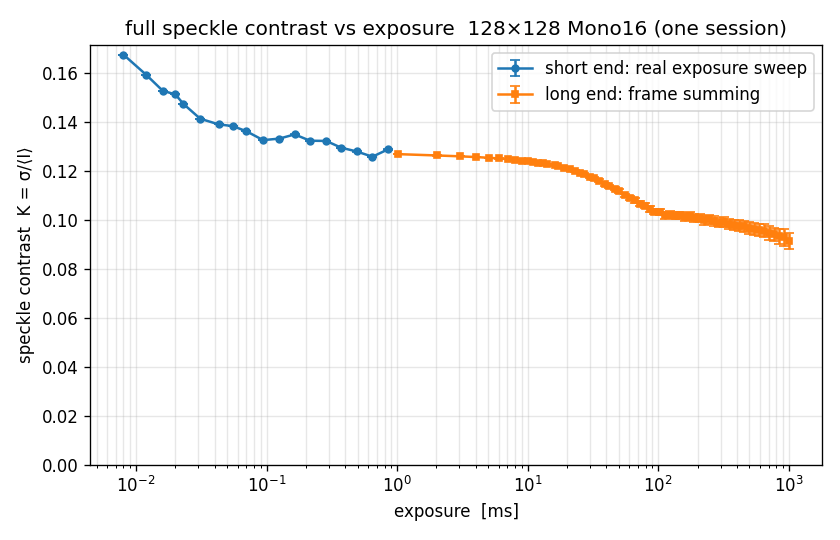
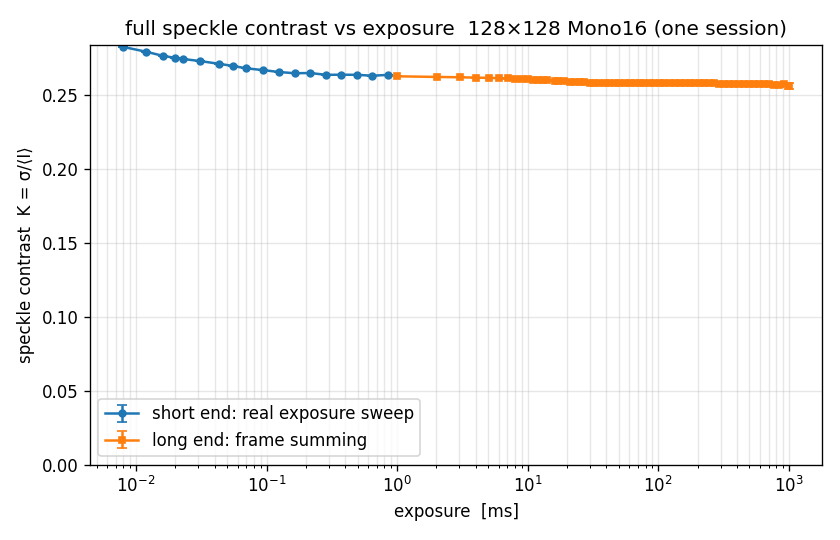
Replace paper decorrelation data with a clean static run
The earlier paper run drifted at long exposure. This run trimmed the light
(no clipping, max ~57k) and let the setup thermally settle, giving the
expected static result: contrast flat at ~0.26 across the whole 8 us..1 s
range (no decorrelation), well-exposed throughout. README updated.

diff --git a/paper_decorrelation_data/README.md b/paper_decorrelation_data/README.md
@@ -1,17 +1,15 @@
 # Paper decorrelation data
 
-Speckle contrast vs exposure for a **static paper** sample (a rigid, non-moving
-scatterer — the static counterpart to [milk](../milk_decorrelation_data/)),
-acquired 2026-05-24.
+Speckle contrast vs exposure for a **static paper** sample (the static counterpart
+to [milk](../milk_decorrelation_data/)), acquired 2026-05-24. Clean run: light
+trimmed to avoid clipping and the setup thermally settled to remove drift.
 
 ## Acquisition conditions
 - Camera: FLIR Blackfly S BFS-U3-16S2M, **Mono16** (12-bit), **128×128** hardware ROI.
 - Operating point: ~**994 fps**, **857 µs** exposure, ~149 µs gap (~1006 µs period).
 - Short end (8–850 µs): real exposure sweep, photon-matched averaging.
 - Long end (0.86 ms – 1 s): frame summing (log-spaced N).
-- Illumination reduced ~3× from the milk run (paper reflects much more). A few
-  bright pixels still graze the 65,408 ceiling but the saturated fraction is
-  < 0.1% (negligible for the tiled contrast).
+- Well-exposed, **no clipping** (max ~57k < the 65,408 ceiling), thermally settled.
 - Produced by `measure_full_curve.py`.
 
 ## Files
@@ -22,11 +20,16 @@ acquired 2026-05-24.
 - `full_curve.png` — combined contrast-vs-exposure curve, 8 µs – 1 s.
 
 ## Result
-- Fast decay from K ≈ 0.17 (8 µs) to a **quasi-static plateau ~0.127** over ~0.1–10 ms
-  — the static-speckle floor expected for a non-moving sample.
-- **Caveat:** beyond ~10 ms the contrast declines (~0.127 → 0.09 at 1 s). Paper is
-  static, so this slow tail is most likely **setup drift** (vibration/thermal/air
-  over the multi-second acquisition), *not* intrinsic paper dynamics. For a flatter
-  static reference use more rigid mounting / a shorter acquisition.
-- Overall contrast (~0.13) is lower than an earlier paper run (~0.19–0.28); the
-  mounting/aperture (speckle sampling) changed when the sample was swapped.
+- Contrast is **flat at ~0.26 across the entire 8 µs – 1 s range**
+  (K ≈ 0.282 at 8 µs → 0.263 at 1 ms → 0.255 at 1 s) — the hallmark of a **static**
+  sample: the speckle does not decorrelate, so no exposure averages it down.
+  This ~0.26 is the static-speckle floor set by the optical sampling.
+- The slight elevation at the very shortest exposures (≤ ~20 µs) is minor residual
+  shot noise (those points are the dimmest, mean ~470–700); the ~3% downslope over
+  1 ms–1 s is negligible residual drift.
+- Contrast with the dynamic milk sample, whose K decays continuously to ~0.008.
+
+### Note on earlier attempts
+The first paper run drifted at long exposure; a later run saturated; another was
+over-dimmed (short-end shot noise). This run trimmed the light to avoid clipping
+and let the setup settle, fixing all three — hence the flat curve.
